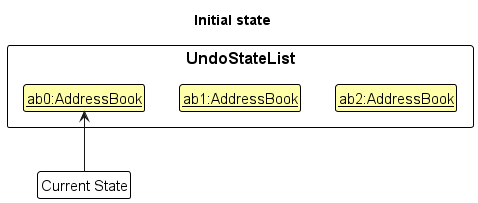
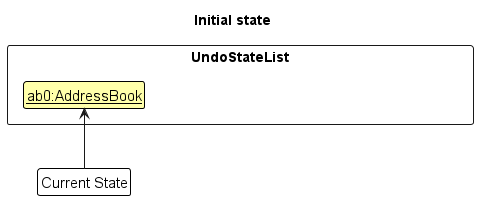
Update diagrams in DG for undo/redo

diff --git a/docs/DeveloperGuide.md b/docs/DeveloperGuide.md
@@ -180,11 +180,11 @@ The undo/redo mechanism is facilitated by `VersionedAddressBook`. It extends `Ad
 
 These operations are exposed in the `Model` interface as `Model#canRedo()`, `Model#canUndo()`, `Model#saveAddressBookVersion()`, `Model#revertAddressBookVersion()` and `Model#redoAddressBookVersion()` respectively.
 
-The `addressBookOlderVersionList` will only hold up to 5 seperate versions of the address book, therefore BizBook will only remember up till 5 previously executed commands that in some way have modified the address book.
+The `addressBookOlderVersionList` will only hold up to 5 seperate unique versions of the address book, therefore BizBook will only remember up till 5 previously executed commands that in some way have modified the address book.
 
 Given below is an example usage scenario and how the undo/redo mechanism behaves at each step.
 
-Step 1. The user launches the application for the first time. The `VersionedAddressBook` will be initialized with the initial address book state, and the `currentStatePointer` pointing to that single address book state.
+Step 1. The user launches the application for the first time. The `addressBookOlderVersionList` will be initialized with the initial address book state, and the `currentStatePointer` pointing to that single address book state. While the `addressBookNewerVersionList` will be empty.
 
 ![UndoRedoState0](images/UndoRedoState0.png)
 
@@ -200,7 +200,7 @@ Step 3. The user executes `add n/David …` to add a new person. The `add` co
 
 </div>
 
-Step 4. The user now decides that adding the person was a mistake, and decides to undo that action by executing the `undo` command. The `undo` command will call `Model#revertAddressBookVersion()`, which remove the item at the `currentStatePointer` and add it into the `addressBookNewerVersionList`. In the process the `currentStatePointer` moves left and points to the previous address book state, and restores the address book to that state.
+Step 4. The user now decides that adding the person was a mistake, and decides to undo that action by executing the `undo` command. The `undo` command will call `Model#revertAddressBookVersion()`, which remove the item at the `currentStatePointer` and add it into the `addressBookNewerVersionList`. In the process the `currentStatePointer` moves left, points to the previous address book state, and restores the address book to that state.
 
 ![UndoRedoState3](images/UndoRedoState3.png)
 
@@ -221,17 +221,17 @@ Similarly, how an undo operation goes through the `Model` component is shown bel
 
 ![UndoSequenceDiagram](images/UndoSequenceDiagram-Model.png)
 
-The `redo` command does the opposite — it calls `Model#redoAddressBookVersion()`, which removes the item at the `redoPointer` and adds it to the back of the `addressBookOlderVersionList` and also shifts the `currentStatePointer` to the right as well as restores the address book to that state.
+The `redo` command does the opposite — it calls `Model#redoAddressBookVersion()`, which removes the item at the `redoPointer` and adds it to the back of the `addressBookOlderVersionList`, it also shifts the `currentStatePointer` to the right as well as restores the address book to that state.
 
-<div markdown="span" class="alert alert-info">:information_source: **Note:** If the `currentStatePointer` is at index `addressBookStateList.size() - 1`, pointing to the latest address book state, then there are no undone AddressBook states to restore. The `redo` command uses `Model#canRedo()` to check if this is the case. If so, it will return an error to the user rather than attempting to perform the redo.
+<div markdown="span" class="alert alert-info">:information_source: **Note:** If the `redoPointer` is at index `addressBookNewerVersionList.size() - 1` or the list is empty, then there are no undone AddressBook states to restore. The `redo` command uses `Model#canRedo()` to check if this is the case. If so, it will return an error to the user rather than attempting to perform the redo.
 
 </div>
 
-Step 5. The user then decides to execute the command `list`. Commands that do not modify the address book, such as `list`, will usually not call `Model#saveAddressBookVersion()`, `Model#revertAddressBookVersion()` or `Model#redoAddressBookVersion()`. Thus, the `addressBookStateList` remains unchanged.
+Step 5. The user then decides to execute the command `list`. Commands that do not modify the address book, such as `list`, will usually not call `Model#saveAddressBookVersion()`, `Model#revertAddressBookVersion()` or `Model#redoAddressBookVersion()`. Thus, the `addressBookOlderVersionList` remains unchanged.
 
 ![UndoRedoState4](images/UndoRedoState4.png)
 
-Step 6. The user executes `clear`, which calls `Model#saveAddressBookVersion()`. Since the `currentStatePointer` is not pointing at the end of the `addressBookStateList`, all address book states after the `currentStatePointer` will be purged. Reason: It no longer makes sense to redo the `add n/David …` command. This is the behavior that most modern desktop applications follow.
+Step 6. The user executes `clear`, which calls `Model#saveAddressBookVersion()`. Since the `redoPointer` is pointing at an item in the `addressBookNewerVersionList`, all address book states in `addressBookNewerVersionList` will be purged. Reason: It no longer makes sense to redo the `add n/David …` command. This is the behavior that most modern desktop applications follow.
 
 ![UndoRedoState5](images/UndoRedoState5.png)
 
